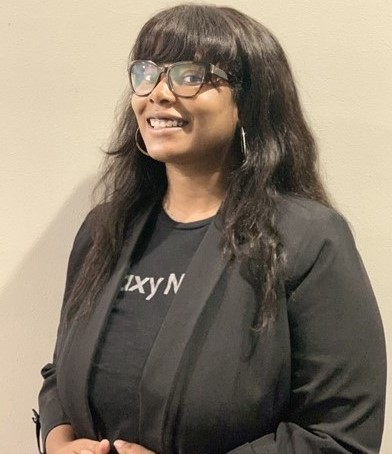
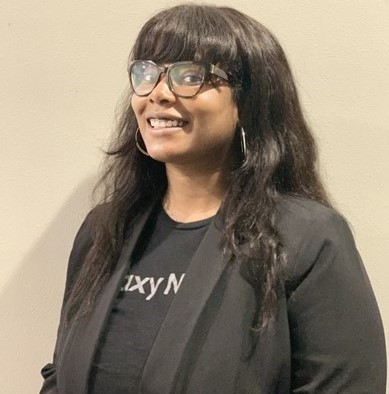
members page formatted

diff --git a/static/css/members.css b/static/css/members.css
@@ -55,7 +55,7 @@ body{
 }
 .jumbotron p{
     text-align: center;
-    font-size: 25px;
+    font-size: 35px;
     padding-bottom: 40px;
 }
   
@@ -81,10 +81,9 @@ body{
     overflow:auto;
 }
 .gallery{
-    margin: 5px;
-    
+    margin: 20px;
     float: center;
-    width: 150px;
+    width: 250px;
 }
 .gallery img{
     width:100%;
@@ -92,8 +91,8 @@ body{
     height: auto;
 }
 
-.row {
-    padding-left: 5px;
+.title {
+    font-size: 30px;
 }
 
 .jumbotron img {

diff --git a/Templates/members.html b/Templates/members.html
@@ -64,7 +64,7 @@
           
           <h1 style="text-align: center;">Member's Contact Information</h1>
           <hr class="my-4">
-          <p>Names and Github Page</p>
+          <p>Click on each member's image for more information.</p>
           <div class="container">
           <div class="row">
            <div class="gallery" >
